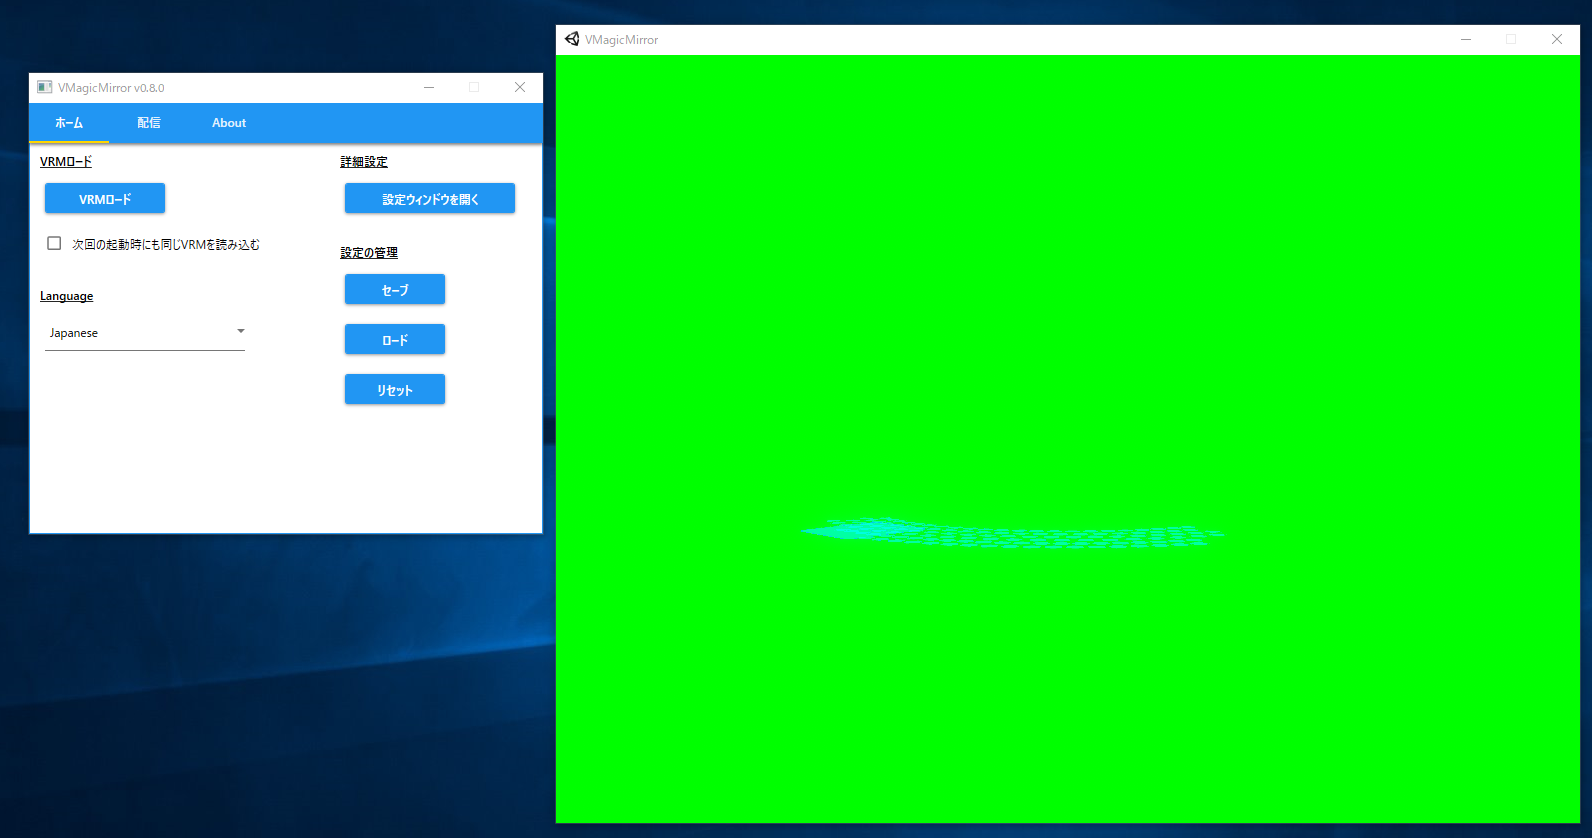
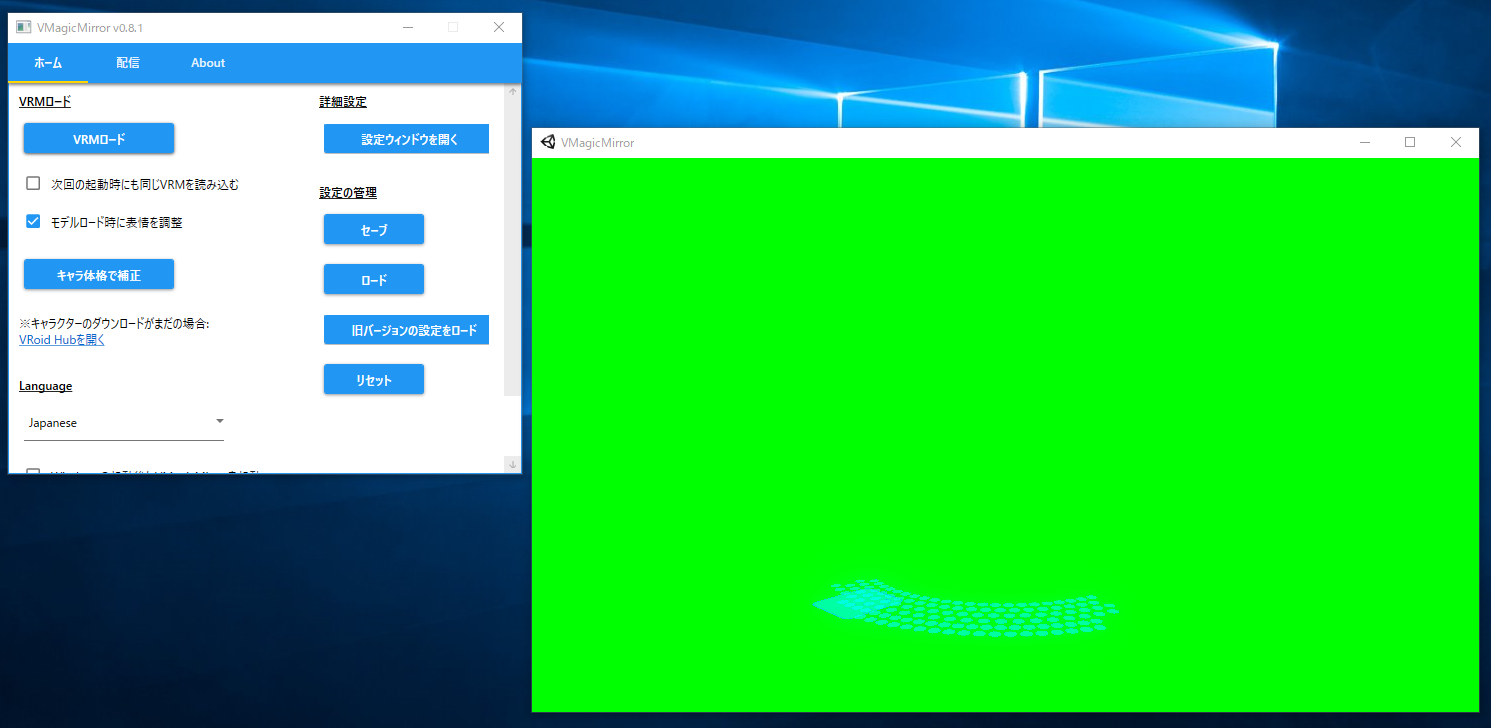
add tips to load prev ver setting / fix with v0.8.1

diff --git a/about_settings.md b/about_settings.md
@@ -23,21 +23,9 @@
 
 `ウィンドウ`タブではキャラクター表示ウィンドウの背景が不透明なときの背景色や、最前面表示のオン・オフが切り替えられます。
 
-また、`ウィンドウ`の設定項目ではアプリケーションの起動直後にキャラクターを表示する位置を固定できます。
+また、Windowsのディスプレイ設定でスクリーンの解像度や配置を変更してキャラクターを見失ってしまった場合、`キャラクター位置のリセット`ボタンで復帰できることがあります。詳細は[4: トラブルシューティング](./troubleshooting.html)を参照下さい。
 
-セットアップ手順は次のとおりです。
-
-[![Fix Window Position](./images/about_settings/img01_015_fix_window_pos.png)](./images/about_settings/img01_015_fix_window_pos.png){: data-lightbox="img01_015"}
-
-1. [2: 基本的な使い方](./get_started.html)の手順に沿ってキャラクターを読み込み、好きな位置へ移動しておきます。
-2. 設定ウィンドウの`ウィンドウ`タブを開いていることを確認します。
-3. `起動時に特定の位置へウィンドウを動かす`チェックをオンにします。
-4. キャラクターが所定の位置にいることを確認し、`いまのウィンドウ位置を記憶`ボタンを押します。
-5. ボタンを押した結果、ボタンの下にある`X(画面左 = 0)`や`Y(画面上 = 0)`の欄に数値が入力されたことを確認します。
-
-セットアップ後にVMagicMirrorを終了し、再度立ち上げると、セットアップした位置にキャラクターが表示されます。
-
-もしキャラクターが表示されない場合、コントロールパネルの`ホーム`タブで、`次回の起動時にも同じVRMを読み込む`のチェックがオンになっているか確認してください。([2: 基本的な使い方](./get_started.html)の"2.2. キャラクターの表示"を参照下さい)
+※v0.8.1ででは`ウィンドウ`の項目でキャラクターの表示位置を固定するためのメニューがありましたが、v0.8.1以降ではこの機能を廃止し、代わりに前回の表示位置をつねに保存するようになっています。
 
 ## 3.2. モーション
 
@@ -49,9 +37,21 @@
 
 上部の項目はコントロールパネルの`配信`タブで`顔・表情`に表示されているのと同じ機能です。
 
-最下部の`Funブレンドのデフォルト値[%]`は、キャラクターの表情をつねにやや笑顔に保つための設定値です。
+下部の`Funブレンドのデフォルト値[%]`は、キャラクターの表情をつねにやや笑顔に保つための設定値です。
 
 大きくするほど基本の表情が笑顔になりますが、キャラクターによってはまばたきやリップシンクの動作と組み合わせたとき不自然になるため、その場合は小さな値にします。
+
+その下の`眉毛(開いてカスタマイズ)`は、通常開く必要のない高度な機能です。独自に作成したVRMで眉毛をうまく動かしたい場合や、眉毛の動きが大きすぎたり、小さすぎたりする場合にカスタマイズします。
+
+※ここをカスタマイズするにはVRMの表情を操作する「ブレンドシェイプ」の知識が必要です。もし詳しくない場合、[バーチャルキャストWikiの説明](https://virtualcast.jp/wiki/doku.php?id=%E3%83%A2%E3%83%87%E3%83%AB%E4%BD%9C%E6%88%90:%E3%83%96%E3%83%AC%E3%83%B3%E3%83%89%E3%82%B7%E3%82%A7%E3%82%A4%E3%83%97%E8%A8%AD%E5%AE%9A)に記載の`ブレンドシェイプの値設定`などをご覧下さい。
+
+* `左眉上げ`: 左眉、あるいは両方の眉を上げるブレンドシェイプを指定します。
+* `左眉下げ`: 左眉、あるいは両方の眉を下げるブレンドシェイプを指定します。
+* 左右で別々のキーを使う: 右と左の眉が別々に動かせるモデルの場合、チェックをオンにします。
+* `右眉上げ`: 右眉を上げるブレンドシェイプを指定します。
+* `右眉下げ`: 右眉を下げるブレンドシェイプを指定します。
+* `眉上げスケール [%]`と`眉下げスケール [%]`: 眉の上下の動きの大きさです。誇張したい場合は大きめの値を、大きくしすぎると不自然になる場合は小さめの値を指定します。
+
 
 
 ### 3.2.2. 腕・ひじ
@@ -142,4 +142,5 @@
 * [4: トラブルシューティング](./troubleshooting.html)
 * [Tips A: デスクトップマスコット化のための設定](./tips_desktop_mascot.html)
 * [Tips B: プレゼンテーションでVMagicMirrorを使う](./tips_presentation.html)
+* [Tips C: 前バージョン(v0.8.0以降)の設定を引き継ぐ](./tips_load_prev_setting.html)
 * [License](./about_license.html)

diff --git a/troubleshooting.md b/troubleshooting.md
@@ -25,11 +25,7 @@
 その後、`VMagicMirror`を再び起動してください。
 
 
-### 4.3. CPU負荷が高すぎる
-
-VMagicMirrorの起動時に、品質設定を`High`にして起動します。
-
-※v0.8.0時点で、`Medium`以下の品質設定ではかえってCPU負荷が上がってしまうことを確認しています。
+## 4.3. CPU負荷が高すぎる
 
 コントロールパネルの`配信`タブで、リップシンクや顔トラッキングを無効化します。
 
@@ -39,7 +35,7 @@ VMagicMirrorの起動時に、品質設定を`High`にして起動します。
 * `レイアウト`タブの`ゲームパッド`を参照し`ゲームパッド入力のキャプチャを有効化`のチェックをオフにします。
 
 
-### 4.4. 視線トラッキングがうまく動かない
+## 4.4. 視線トラッキングがうまく動かない
 
 プレイしているソフトによっては仕様(※下部参照)となります。ご了承ください。
 
@@ -58,7 +54,7 @@ VMagicMirrorの起動時に、品質設定を`High`にして起動します。
 
 
 
-### 4.5. まばたきをトラッキングしない
+## 4.5. まばたきをトラッキングしない
 
 メガネをかけている場合、外して試してみてください。
 
@@ -72,6 +68,22 @@ VMagicMirrorの起動時に、品質設定を`High`にして起動します。
 * 首元がすっきりした服を着ていること
 * 口元が隠れすぎていないこと (マイクで一部が隠れる程度はOKです)
 
+## 4.6. キャラをロードしたが、どこにも表示されない
+
+ディスプレイの解像度や配置を変更するとキャラクターが表示されなくなることがあります。
+
+以下の手順で、表示位置をリセットします。
+
+* コントロールパネル(※`ホーム`や`配信`タブがある方のウィンドウ)をつかみ、スクリーンの左上あたりに移動します。
+* 設定ウィンドウを開いて`ウィンドウ`タブを表示し、`キャラクター位置のリセット`ボタンを押します。
+    + この時点でキャラクターが見えたら、[2: 基本的な使い方](./get_started.html)に沿ってキャラクターの位置や視点を調整します。
+* まだキャラクターが見えない場合、設定ウィンドウの`ウィンドウ`タブで`背景を透過`のチェックをオフにして、設定ウィンドウの横にキャラクターウィンドウが表示されるか確認します。
+* 設定ウィンドウの`レイアウト`タブで`カメラ`の項目にある`位置をリセット`ボタンを押して、視点をリセットします。
+    * キャラクターが表示されるのを確認したら、[2: 基本的な使い方](./get_started.html)に沿ってキャラクターの位置や視点を調整します。
+
+以上の手順で改善しない場合、`4.2. 起動直後にVMagicMirrorが停止する`の方法をお試し下さい。
+
+
 
 ## Sections
 
@@ -81,4 +93,5 @@ VMagicMirrorの起動時に、品質設定を`High`にして起動します。
 * 4: トラブルシューティング (このページ)
 * [Tips A: デスクトップマスコット化のための設定](./tips_desktop_mascot.html)
 * [Tips B: プレゼンテーションでVMagicMirrorを使う](./tips_presentation.html)
+* [Tips C: 前バージョン(v0.8.0以降)の設定を引き継ぐ](./tips_load_prev_setting.html)
 * [License](./about_license.html)

diff --git a/en_get_started.md b/en_get_started.md
@@ -7,17 +7,7 @@
 
 `VMagicMirror.exe` is main .exe file of VMagicMirror.
 
-When you started, the configuration dialog appears so check the following and then `Play!`.
-
-* `Windowed` is checked
-* `Screen Resolution` is enough smaller than whole monitor size
-* `Graphics Quality` is `High` or higher
-
-**WARN** v0.8.0 has issue that `Graphics Quality` with `Medium` or lower might drastically increases CPU usage.
-
-[![Start Configuration](./images/get_started/img00_010_startup_configuration.png)](./images/get_started/img00_010_startup_configuration.png){: data-lightbox="img00_010"})
-
-After started you will see "Control Panel" with GUI and "Character Window", where the character will appear.
+When you start the application you will see "Control Panel" with GUI and "Character Window", where the character will appear.
 
 [![Start Image](./images/get_started/img00_015_started.png)](./images/get_started/img00_015_started.png){: data-lightbox="img00_015"}
 
@@ -25,6 +15,7 @@ When you close one of control panel or character window, then the other window w
 
 Instead, the control panel can be minimized during you do not need it.
 
+*v0.8.0 shows resolution selection dialog, but in v0.8.1 we do not see the dialog anymore. Instead, you can adjust the character window size by dragging the edge of window like many other applications.
 
 ## 2.2. Load Character
 
@@ -42,7 +33,7 @@ If you want to use the same character every time, check `Load current VRM on nex
 
 [![After Loaded](./images/get_started/img00_040_after_loaded.png)](./images/get_started/img00_040_after_loaded.png){: data-lightbox="img00_040"}
 
-**Hint:** If your character and keyboard / mouse layout do not match, do not worry. You can adjust them soon after, in the section [3: Settings](./en_about_settings.html).
+**Hint:** If your character and keyboard / mouse layout do not match, do not worry. First you can use `Adjust size by VRM` button to fix camera positions and keyboard / mouse pad positions. Also you can customize those setting manually in section [3: Settings](./en_about_settings.html).
 
 ## 2.3. Streaming 
 
@@ -176,4 +167,5 @@ In this case [3: Settings](./en_about_settings.html) will solve your problems, s
 * [4: Troubleshooting](./en_troubleshooting.html)
 * [Tips A: Desktop Mascot Setup](./en_tips_desktop_mascot.html)
 * [Tips B: VMagicMirror for Presentation](./en_tips_presentation.html)
+* [Tips C: Load Previous Version Setting](./en_tips_load_prev_setting.html)
 * [License](./en_about_license.html)

diff --git a/en_about_settings.md b/en_about_settings.md
@@ -45,13 +45,15 @@ If the character does not appear, check on control panel `Home` tab > `Load curr
 
 ### 3.2.1. Face
 
-Except the bottom item the properties are the same as `Streaming` tab in control panel.
+Upper part is the same as `Streaming` tab in control panel.
 
-The bottom item `Default Fun Blend Shape [%]` specifies the default fun expression rate.
+The item `Default Fun Blend Shape [%]` specifies the default fun expression rate.
 
-As the value increases the character will become always smile, but some character's facial expression will be unnatural when combined to blink or other face motions.
+As the value increases the character will become always smile, but some character's facial expression will be unnatural when combined to blink or other face motions. In those cases, decrease the value.
 
-In those cases, decrease the value.
+The `Eyebrow (Open to Customize)` is very advanced section and normally you do not need modify them. However if you have original VRM and want to move the eyebrow, or in case the eyebrow motion is too big or too small. 
+
+* This section requires the knowledge about `BlendShape` to control VRM facial expression. If you do not know well, please refer to [Virtual Cast Wiki](https://virtualcast.jp/wiki/doku.php?id=%E3%83%A2%E3%83%87%E3%83%AB%E4%BD%9C%E6%88%90:%E3%83%96%E3%83%AC%E3%83%B3%E3%83%89%E3%82%B7%E3%82%A7%E3%82%A4%E3%83%97%E8%A8%AD%E5%AE%9A) and see latter section's image. You will see the name like `mouth_a` or `mouth_b`. This is BlendShape. And you can specify the name of BlendShape to move eyebrow, by sliding each shape in Unity Editor.
 
 
 ### 3.2.2. Arm
@@ -135,4 +137,5 @@ In `Light` tab you can set the light and bloom colors and intensities.
 * [4: Troubleshooting](./en_troubleshooting.html)
 * [Tips A: Desktop Mascot Setup](./en_tips_desktop_mascot.html)
 * [Tips B: VMagicMirror for Presentation](./en_tips_presentation.html)
+* [Tips C: Load Previous Version Setting](./en_tips_load_prev_setting.html)
 * [License](./en_about_license.html)

diff --git a/en_tips_desktop_mascot.md b/en_tips_desktop_mascot.md
@@ -18,20 +18,17 @@ For the test, quit VMagicMirror and restart. If you can see the character with t
 
 ## Tips A.2. Start VMagicMirror on Windows startup
 
-* Right click `VmagicMirror.exe` and create shortcut.
-* Move shortcut to Windows startup folder.
+In the control panel `Home` tab, check on `Start on Windows startup` at the left bottom side.
 
-Typically the startup folder path is like this.
+And if you are putting shortcut of v0.8.0 or older version to the startup folder, remove it. The startup folder path is like following, and please replace `UserName` part for your environment.
 
 `C:\Users\(UserName)\AppData\Roaming\Microsoft\Windows\Start Menu\Programs\Startup`
 
-Please replace `UserName` and necessary drive name.
-
 After this setup, you can check if the thing goes good to restart Windows.
 
-If the setup is successful, VMagicMirror start configuration dialog will appear when Windows has started.
+If the setup is successful, VMagicMirror will starts when Windows has started.
 
-If you will replace the VMagicMirror with different version, or want to disable automatic startup, then delete the shortcut from the startup folder.
+When you replace the VMagicMirror with different version, or want to disable automatic startup, then turn off `Start on Windows startup`.
 
 
 ## Sections
@@ -42,4 +39,5 @@ If you will replace the VMagicMirror with different version, or want to disable 
 * [4: Troubleshooting](./en_troubleshooting.html)
 * Tips A: Desktop Mascot Setup (This page)
 * [Tips B: VMagicMirror for Presentation](./en_tips_presentation.html)
+* [Tips C: Load Previous Version Setting](./en_tips_load_prev_setting.html)
 * [License](./en_about_license.html)

diff --git a/tips_load_prev_setting.md b/tips_load_prev_setting.md
@@ -1,0 +1,27 @@
+
+# Tips C: 前バージョン(v0.8.0以降)の設定を引き継ぐ
+
+[English](./en_tips_load_prev_setting.html)
+
+※本機能はVMagicMirror v0.8.1以降でサポートしています。
+
+もしVMagicMirror v0.8.0以降を使っていた場合で、別途インストールしていたバージョンから設定を引き継ぎたい場合、次の手順で設定を引き継げます。
+
+* 新しいバージョンのVMagicMirrorを起動します。
+* コントロールパネル右の`旧バージョンの設定をロード`ボタンを押し、前まで使っていたバージョンの`VMagicMirror.exe`を選択します。
+* 設定が正しく読み込まれた場合、キャラクターやレイアウトをロードします。
+
+※ウィンドウの位置が修正されない場合があります。この場合、コントロールパネルの`配信`タブで`背景を透過`をオフにして、位置を調整してください。
+
+
+## Sections
+
+* [1: VMagicMirrorについて](./index.html)
+* [2: 基本的な使い方](./get_started.html)
+* [3: 詳細設定](./about_settings.html)
+* [4: トラブルシューティング](./troubleshooting.html)
+* [Tips A: デスクトップマスコット化のための設定](./tips_desktop_mascot.html)
+* [Tips B: プレゼンテーションでVMagicMirrorを使う](./tips_presentation.html)
+* Tips C: 前バージョン(v0.8.0以降)の設定を引き継ぐ (このページ)
+) [License](./about_license.html)
+ありがとうございます。

diff --git a/en_tips_load_prev_setting.md b/en_tips_load_prev_setting.md
@@ -1,0 +1,24 @@
+
+# Tips C: Load Previous Version (> v0.8.0) Setting 
+
+[Japanese](./tips_load_prev_setting.html)
+
+*This feature is available from v0.8.1 or later.
+
+If you have used VMagicMirror v0.8.0 or later, and replace it to newer version, then you can transport older version's setting to newer one.
+
+* Start newer version VMagicMirror.
+* On the right side of the control panel, press `Load from Prev ver.` and select older version `VMagicMirror.exe`, then character, layout etc. are transported.
+
+*Window position and size might not be fixed. In this case, adjust it by turning off  `Streaming` tab > `Transparent Window`.
+
+## Sections
+
+* [1: VMagicMirror](./en_index.html)
+* [2: Getting Started](./en_get_started.html)
+* [3: Settings](./en_about_settings.html)
+* [4: Troubleshooting](./en_troubleshooting.html)
+* [Tips A: Desktop Mascot Setup](./en_tips_desktop_mascot.html)
+* [Tips B: VMagicMirror for Presentation](./en_tips_presentation.html)
+* Tips C: Load Previous Version Setting (This page)
+* [License](./en_about_license.html)

diff --git a/en_index.md b/en_index.md
@@ -3,10 +3,10 @@
 
 [Japanese](./index.html)
 
-VMagicMirror v0.8.0
+VMagicMirror v0.8.1
 
 * Creator: 獏星(ばくすたー)
-* 2019/May/06
+* 2019/May/12
 
 VMagicMirror is application for Windows desktop, to move your VRM without any special devices.
 
@@ -51,6 +51,7 @@ Please see the detail on [License](./en_about_license.html).
 * [4: Troubleshooting](./en_troubleshooting.html)
 * [Tips A: Desktop Mascot Setup](./en_tips_desktop_mascot.html)
 * [Tips B: VMagicMirror for Presentation](./en_tips_presentation.html)
+* [Tips C: Load Previous Version Setting](./en_tips_load_prev_setting.html)
 
 ## 1.5. Contact
 
@@ -69,4 +70,5 @@ If you use Twitter, the review comments or requests with tag `#VMagicMirror` is 
 * [4: Troubleshooting](./en_troubleshooting.html)
 * [Tips A: Desktop Mascot Setup](./en_tips_desktop_mascot.html)
 * [Tips B: VMagicMirror for Presentation](./en_tips_presentation.html)
+* [Tips C: Load Previous Version Setting](./en_tips_load_prev_setting.html)
 * [License](./en_about_license.html)

diff --git a/en_troubleshooting.md b/en_troubleshooting.md
@@ -23,7 +23,7 @@ Then try to restatt.
 
 ### 4.3. Too high CPU usage
 
-Set `Graphics Quality` to `High` when starting VMagicMirror.
+When you are using v0.8.0 or older, set `Graphics Quality` to `High` when starting VMagicMirror.
 
 **WARN:** In v0.8.0, some machine with `Medium` or lower setting drastically increases CPU usage. It is a known issue.
 
@@ -78,4 +78,5 @@ Showing entire face helps eye blink tracking, because face tracking system finds
 * [4: Troubleshooting](./en_troubleshooting.html)
 * [Tips A: Desktop Mascot Setup](./en_tips_desktop_mascot.html)
 * [Tips B: VMagicMirror for Presentation](./en_tips_presentation.html)
+* [Tips C: Load Previous Version Setting](./en_tips_load_prev_setting.html)
 * [License](./en_about_license.html)
